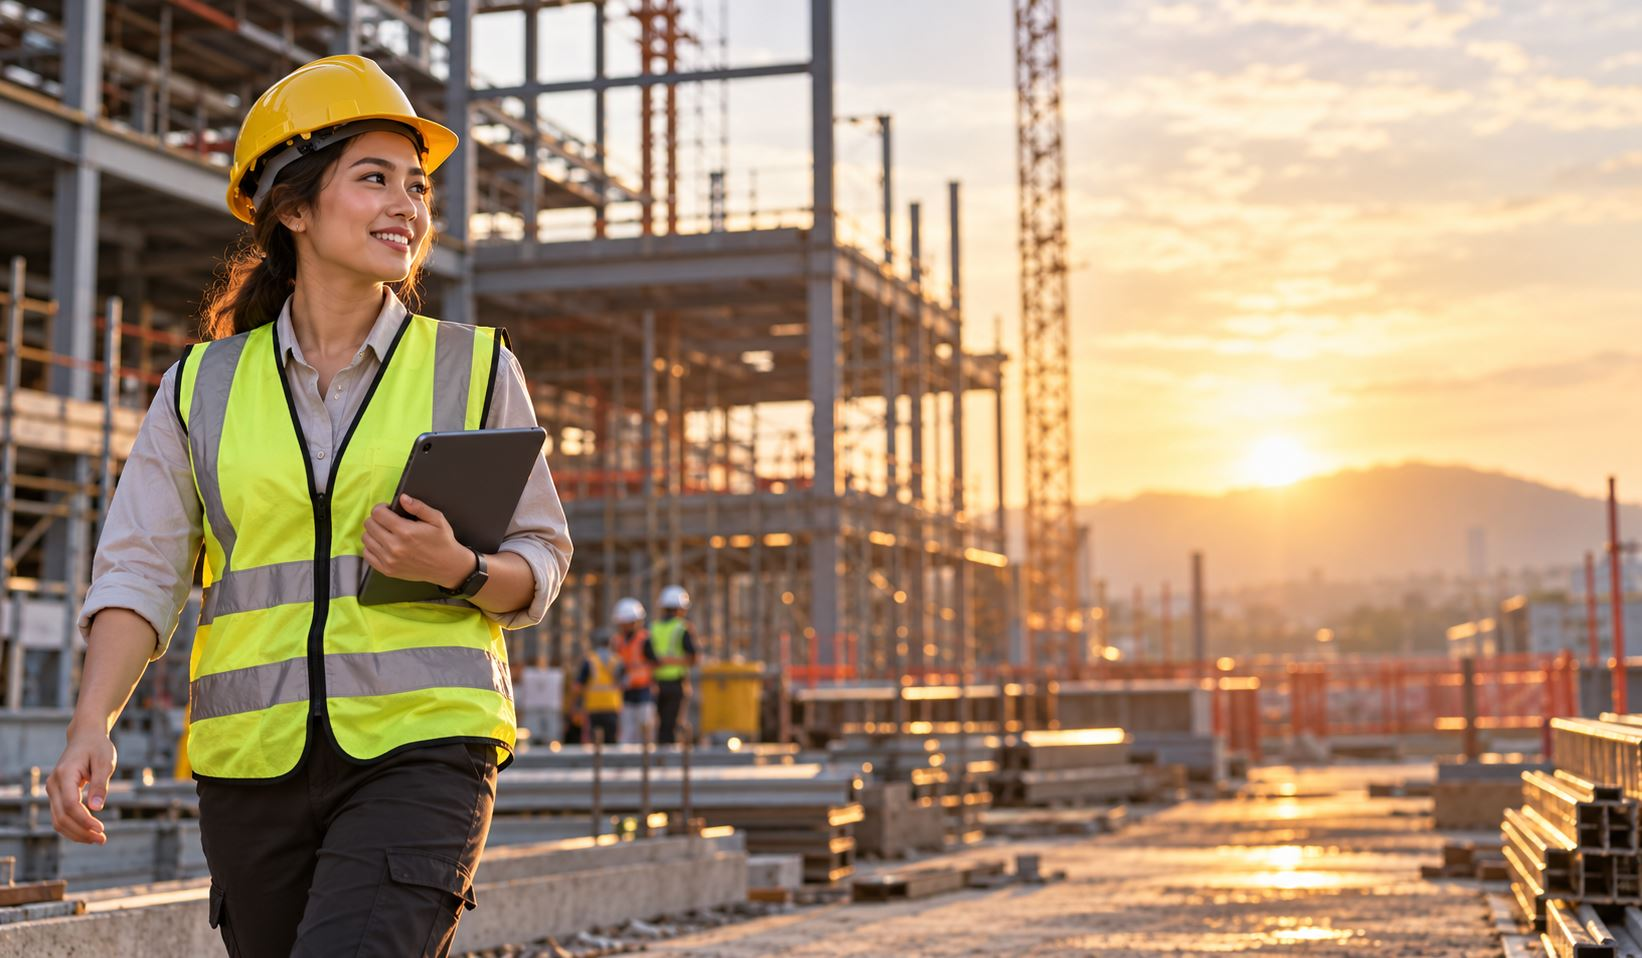
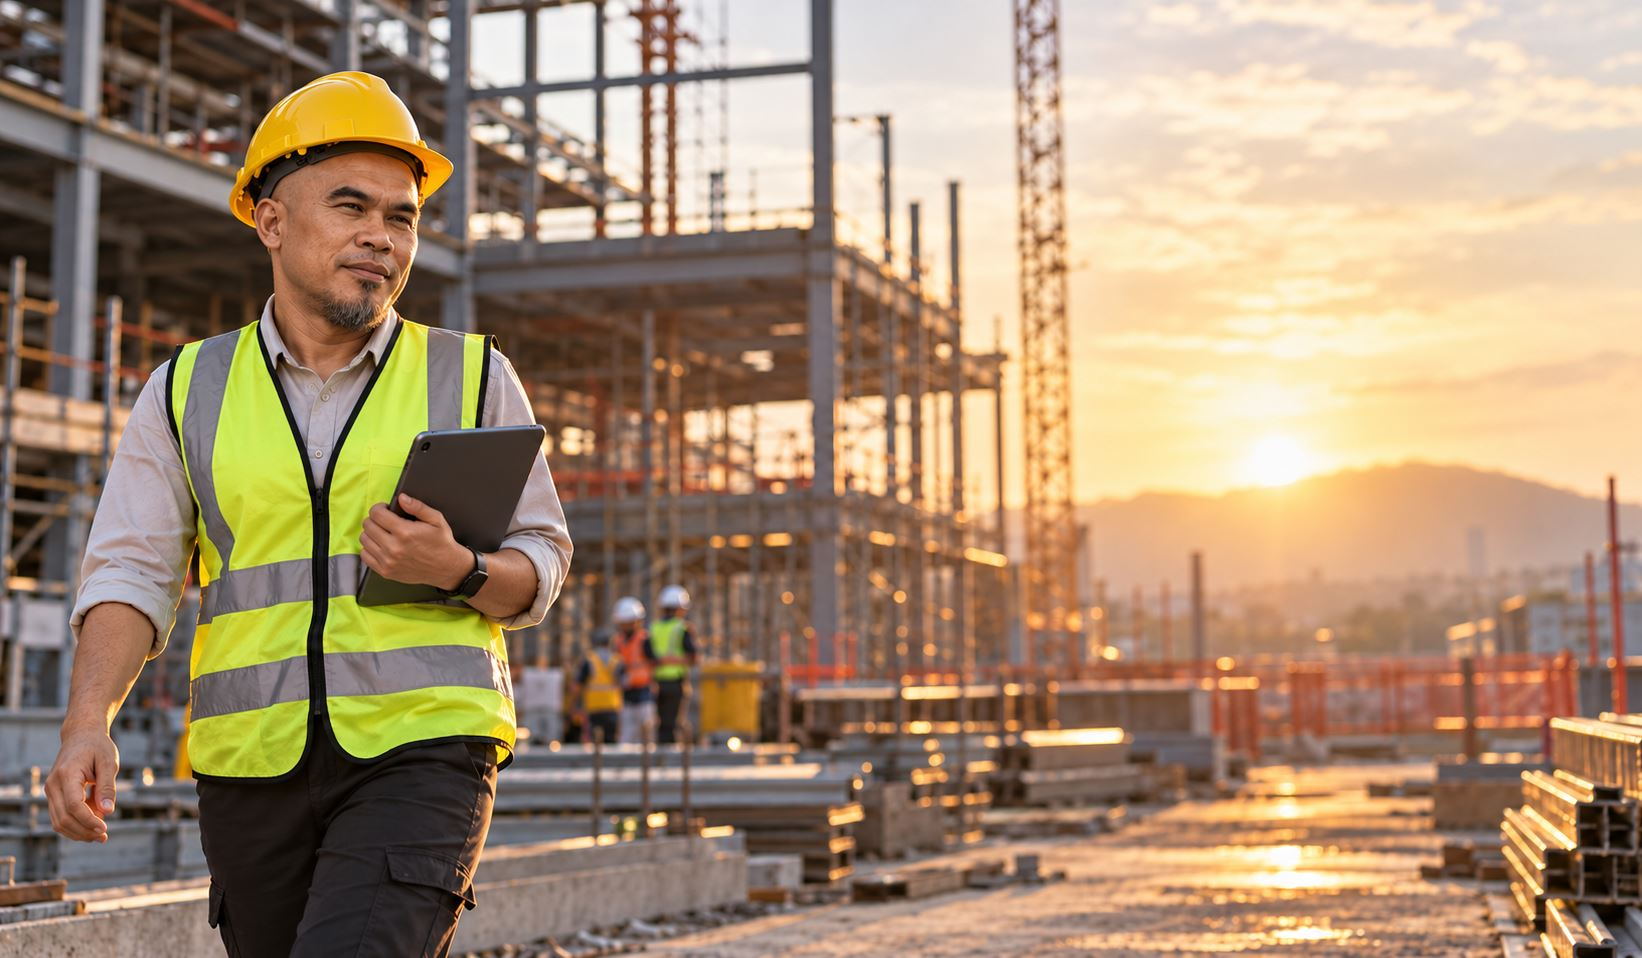
landing page

diff --git a/resources/js/Pages/PublicWeb/Index.jsx b/resources/js/Pages/PublicWeb/Index.jsx
@@ -1,5 +1,5 @@
 import React, { useEffect, useMemo, useRef, useState } from 'react';
-import { Head, Link, useForm, usePage } from '@inertiajs/react';
+import { Head, Link } from '@inertiajs/react';
 import { AnimatePresence, motion, useInView, useScroll, useTransform } from 'framer-motion';
 import {
     ArrowUpRight, ArrowRight, Phone, Menu, X, ChevronDown, Check, Play, Quote, Star, ShieldCheck, ClipboardCheck,
@@ -23,8 +23,6 @@ const NAV = [
 ];
 
 const HERO_WORDS = ['safer', 'smarter', 'compliant', 'faster'];
-
-const INTERESTS = ['Inspections', 'Toolbox talks', 'Incident statistics', 'Man-hours', 'Subcontractors'];
 
 const CAPABILITIES = [
     { icon: ClipboardCheck, label: 'Site inspections' },
@@ -92,7 +90,7 @@ const REVIEWS = [
 ];
 
 const STEPS = [
-    { title: 'Request a demo', text: 'Tell us about your projects and what you want to track.' },
+    { title: 'Create your account', text: 'Register your company and choose the modules you need.' },
     { title: 'Set up your company', text: 'Add projects, staff, subcontractors and your compliance metrics.' },
     { title: 'Assign & invite', text: 'Assign inspectors to projects and share the registration link with subcontractors.' },
     { title: 'Inspect & report', text: 'Run inspections and toolbox talks on site, then pull reports in one click.' },
@@ -268,145 +266,9 @@ function Counter({ to, suffix = '+', duration = 1.8 }) {
 }
 
 /* ──────────────────────────────────────────────────────────────
-   Hero estimate / demo form (2 steps)
-────────────────────────────────────────────────────────────── */
-function DemoForm() {
-    const [step, setStep] = useState(1);
-    const [done, setDone] = useState(false);
-    const { data, setData, post, processing, errors, reset } = useForm({
-        interests: [],
-        company: '',
-        projects: '',
-        preferred_date: '',
-        name: '',
-        email: '',
-        phone: '',
-    });
-
-    const toggle = (v) =>
-        setData('interests', data.interests.includes(v) ? data.interests.filter((x) => x !== v) : [...data.interests, v]);
-
-    const submit = (e) => {
-        e.preventDefault();
-        post('/demo-request', {
-            preserveScroll: true,
-            onSuccess: () => {
-                setDone(true);
-                reset();
-            },
-        });
-    };
-
-    const field =
-        'w-full rounded-xl border-0 bg-gray-100 px-4 py-3 text-sm text-ink-900 placeholder-gray-400 focus:bg-white focus:ring-2 focus:ring-brand-500';
-
-    return (
-        <div className="rounded-3xl bg-white p-3 text-ink-950 shadow-2xl">
-            <div className="rounded-2xl bg-brand-500 px-5 py-3.5 text-center text-sm font-semibold text-ink-900 shadow-inner">
-                Get your free demo
-            </div>
-
-            {done ? (
-                <div className="px-5 py-10 text-center">
-                    <span className="mx-auto flex h-14 w-14 items-center justify-center rounded-full bg-emerald-100 text-emerald-600">
-                        <Check className="h-7 w-7" strokeWidth={3} />
-                    </span>
-                    <p className="mt-4 text-lg font-semibold">Request received</p>
-                    <p className="mt-1 text-sm text-gray-500">We will contact you within one working day.</p>
-                    <button onClick={() => { setDone(false); setStep(1); }} className="mt-5 text-sm font-semibold text-ink-900 underline">
-                        Send another request
-                    </button>
-                </div>
-            ) : (
-                <form onSubmit={submit} className="px-3 pb-3 pt-4">
-                    <div className="flex items-center justify-center gap-2">
-                        {[1, 2].map((n) => (
-                            <span key={n} className={`flex h-6 w-6 items-center justify-center rounded-full text-xs font-bold transition ${step === n ? 'bg-ink-900 text-white' : 'bg-gray-100 text-gray-500'}`}>{n}</span>
-                        ))}
-                    </div>
-                    <p className="mt-2 text-center text-xs text-gray-400">Takes 15 seconds • 100% free</p>
-
-                    <AnimatePresence mode="wait">
-                        {step === 1 ? (
-                            <motion.div key="s1" initial={{ opacity: 0, x: 16 }} animate={{ opacity: 1, x: 0 }} exit={{ opacity: 0, x: -16 }} transition={{ duration: 0.25 }}>
-                                <p className="mt-4 text-sm font-semibold">What do you want to manage?</p>
-                                <div className="mt-3 flex flex-wrap gap-2">
-                                    {INTERESTS.map((v) => {
-                                        const on = data.interests.includes(v);
-                                        return (
-                                            <button key={v} type="button" onClick={() => toggle(v)}
-                                                className={`rounded-full px-3.5 py-2 text-xs font-medium transition ${on ? 'bg-ink-900 text-white' : 'bg-gray-100 text-ink-900 hover:bg-gray-200'}`}>
-                                                {v}
-                                            </button>
-                                        );
-                                    })}
-                                </div>
-
-                                <div className="mt-4 grid grid-cols-2 gap-3">
-                                    <div className="col-span-2">
-                                        <label className="mb-1 block text-xs font-medium text-gray-500">Company name</label>
-                                        <input className={field} value={data.company} onChange={(e) => setData('company', e.target.value)} placeholder="Your company" />
-                                    </div>
-                                    <div>
-                                        <label className="mb-1 block text-xs font-medium text-gray-500">Active projects</label>
-                                        <select className={field} value={data.projects} onChange={(e) => setData('projects', e.target.value)}>
-                                            <option value="">Select</option>
-                                            <option>1–3</option>
-                                            <option>4–10</option>
-                                            <option>11–25</option>
-                                            <option>25+</option>
-                                        </select>
-                                    </div>
-                                    <div>
-                                        <label className="mb-1 block text-xs font-medium text-gray-500">Preferred date</label>
-                                        <input type="date" className={field} value={data.preferred_date} onChange={(e) => setData('preferred_date', e.target.value)} />
-                                    </div>
-                                </div>
-
-                                <button type="button" onClick={() => setStep(2)} className="mx-auto mt-5 flex items-center gap-1.5 rounded-xl bg-gray-100 px-5 py-2.5 text-sm font-semibold hover:bg-gray-200">
-                                    Next <ArrowRight className="h-4 w-4" />
-                                </button>
-                            </motion.div>
-                        ) : (
-                            <motion.div key="s2" initial={{ opacity: 0, x: 16 }} animate={{ opacity: 1, x: 0 }} exit={{ opacity: 0, x: -16 }} transition={{ duration: 0.25 }}>
-                                <div className="mt-4 space-y-3">
-                                    <div>
-                                        <label className="mb-1 block text-xs font-medium text-gray-500">Full name</label>
-                                        <input className={field} value={data.name} onChange={(e) => setData('name', e.target.value)} required />
-                                        {errors.name && <p className="mt-1 text-xs text-red-500">{errors.name}</p>}
-                                    </div>
-                                    <div>
-                                        <label className="mb-1 block text-xs font-medium text-gray-500">Email</label>
-                                        <input type="email" className={field} value={data.email} onChange={(e) => setData('email', e.target.value)} required />
-                                        {errors.email && <p className="mt-1 text-xs text-red-500">{errors.email}</p>}
-                                    </div>
-                                    <div>
-                                        <label className="mb-1 block text-xs font-medium text-gray-500">Phone number (optional)</label>
-                                        <input type="tel" className={field} value={data.phone} onChange={(e) => setData('phone', e.target.value)} />
-                                    </div>
-                                </div>
-                                <div className="mt-5 flex gap-2">
-                                    <button type="button" onClick={() => setStep(1)} className="rounded-xl bg-gray-100 px-4 py-3 text-sm font-semibold hover:bg-gray-200">Back</button>
-                                    <button type="submit" disabled={processing} className="flex-1 rounded-xl bg-brand-500 px-4 py-3 text-sm font-semibold text-ink-900 hover:bg-brand-400 disabled:opacity-60">
-                                        {processing ? 'Sending…' : 'Get my free demo'}
-                                    </button>
-                                </div>
-                            </motion.div>
-                        )}
-                    </AnimatePresence>
-
-                    <p className="mt-4 text-center text-[11px] text-gray-400">We respect your privacy.</p>
-                </form>
-            )}
-        </div>
-    );
-}
-
-/* ──────────────────────────────────────────────────────────────
    Page
 ────────────────────────────────────────────────────────────── */
 export default function Landing({ modules = [] }) {
-    const { flash } = usePage().props;
     const [bar, setBar] = useState(true);
     const [menu, setMenu] = useState(false);
     const [stuck, setStuck] = useState(false);
@@ -457,7 +319,7 @@ export default function Landing({ modules = [] }) {
                         <div className="relative mx-auto flex max-w-7xl items-center justify-center px-10 py-2.5 text-center text-xs font-medium sm:text-sm">
                             <span>
                                 Digitise inspections & toolbox talks for every project.{' '}
-                                <a href="#demo" className="font-semibold underline underline-offset-2">Book a free demo</a>
+                                <Link href="/register-view" className="font-semibold underline underline-offset-2">Create your account</Link>
                             </span>
                             <button onClick={() => setBar(false)} className="absolute right-3 flex h-6 w-6 items-center justify-center rounded-full bg-ink-900/10 hover:bg-ink-900/20" aria-label="Close">
                                 <X className="h-3.5 w-3.5" />
@@ -488,10 +350,10 @@ export default function Landing({ modules = [] }) {
                             <Phone className="h-4 w-4 text-brand-700" /> {CONTACT.phone}
                         </a>
                         <Link href="/login" className="rounded-full px-4 py-2.5 text-sm font-semibold hover:bg-gray-100">Sign in</Link>
-                        <a href="#demo" className="group flex items-center gap-2.5 rounded-full bg-gray-100 py-2 pl-2 pr-5 text-sm font-semibold transition hover:bg-gray-200">
+                        <Link href="/register-view" className="group flex items-center gap-2.5 rounded-full bg-gray-100 py-2 pl-2 pr-5 text-sm font-semibold transition hover:bg-gray-200">
                             <span className="flex h-8 w-8 items-center justify-center rounded-full bg-ink-900 text-brand-400 transition group-hover:rotate-45"><ArrowUpRight className="h-4 w-4" /></span>
-                            Get free demo
-                        </a>
+                            Get started
+                        </Link>
                     </div>
 
                     <button onClick={() => setMenu(!menu)} className="flex h-10 w-10 items-center justify-center rounded-full bg-gray-100 lg:hidden" aria-label="Menu">
@@ -508,7 +370,7 @@ export default function Landing({ modules = [] }) {
                                 ))}
                                 <div className="flex gap-2 pt-3">
                                     <Link href="/login" className="flex-1 rounded-full border border-gray-200 py-3 text-center text-sm font-semibold">Sign in</Link>
-                                    <a href="#demo" onClick={() => setMenu(false)} className="flex-1 rounded-full bg-brand-500 py-3 text-center text-sm font-semibold text-ink-900">Free demo</a>
+                                    <Link href="/register-view" className="flex-1 rounded-full bg-brand-500 py-3 text-center text-sm font-semibold text-ink-900">Get started</Link>
                                 </div>
                             </div>
                         </motion.div>
@@ -520,9 +382,9 @@ export default function Landing({ modules = [] }) {
                 {/* HERO */}
                 <section className="px-1 sm:px-1.5">
                     <Photo src="hero.jpg" alt="Safety inspector on site" className="min-h-[760px] rounded-[28px] lg:min-h-[880px]">
-                        <div className="absolute inset-0 bg-gradient-to-r from-black/80 via-black/45 to-black/10" />
-                        <div className="relative mx-auto grid max-w-[1400px] items-center gap-10 px-5 py-14 sm:px-8 lg:grid-cols-[1.15fr_0.85fr] lg:py-20">
-                            <div className="text-white">
+                        <div className="absolute inset-0 bg-gradient-to-t from-black/85 via-black/50 to-black/10 lg:bg-gradient-to-l lg:from-black/85 lg:via-black/55 lg:to-black/0" />
+                        <div className="relative mx-auto flex min-h-[760px] max-w-[1400px] items-end px-5 py-14 sm:px-8 lg:min-h-[880px] lg:items-center lg:justify-end lg:py-20">
+                            <div className="max-w-3xl text-white">
                                 <Reveal>
                                     <div className="mb-8 flex flex-wrap items-center gap-3">
                                         <span className="inline-flex items-center gap-2 rounded-full border border-white/20 bg-white/10 px-4 py-2 text-xs backdrop-blur">
@@ -548,10 +410,10 @@ export default function Landing({ modules = [] }) {
 
                                 <Reveal delay={0.24}>
                                     <div className="mt-8 flex flex-wrap gap-3">
-                                        <PillButton href="#demo">Book a demo</PillButton>
-                                        <a href="#features" className="inline-flex items-center rounded-full bg-white/15 px-6 py-3.5 text-sm font-semibold text-white backdrop-blur transition hover:bg-white/25">
-                                            See features
-                                        </a>
+                                        <PillButton href="/register-view">Get started</PillButton>
+                                        <Link href="/login" className="inline-flex items-center rounded-full bg-white/15 px-6 py-3.5 text-sm font-semibold text-white backdrop-blur transition hover:bg-white/25">
+                                            Sign in
+                                        </Link>
                                     </div>
                                 </Reveal>
 
@@ -572,9 +434,6 @@ export default function Landing({ modules = [] }) {
                                 </Reveal>
                             </div>
 
-                            <motion.div id="demo" initial={{ opacity: 0, y: 40 }} animate={{ opacity: 1, y: 0 }} transition={{ duration: 0.8, delay: 0.25, ease }} className="scroll-mt-28">
-                                <DemoForm />
-                            </motion.div>
                         </div>
                     </Photo>
                 </section>
@@ -604,10 +463,10 @@ export default function Landing({ modules = [] }) {
                             </Reveal>
                         </div>
                         <Reveal delay={0.15}>
-                            <a href="#demo" className="group inline-flex items-center gap-3 text-sm font-semibold">
-                                Book a demo
+                            <Link href="/register-view" className="group inline-flex items-center gap-3 text-sm font-semibold">
+                                Create an account
                                 <span className="flex h-9 w-9 items-center justify-center rounded-full bg-ink-900 text-white transition group-hover:rotate-45"><ArrowUpRight className="h-4 w-4" /></span>
-                            </a>
+                            </Link>
                         </Reveal>
                     </div>
 
@@ -735,10 +594,10 @@ export default function Landing({ modules = [] }) {
                                             {p.price === 0 ? 'Free' : <>RM {Number(p.price).toLocaleString()}</>}
                                             {p.price > 0 && <span className={`ml-1 text-base font-normal tracking-normal ${p.popular ? 'text-gray-400' : 'text-gray-500'}`}>/ year</span>}
                                         </p>
-                                        <a href="#demo" className={`group mt-6 flex items-center justify-between rounded-full py-2 pl-5 pr-2 text-sm font-semibold transition ${p.popular ? 'bg-brand-500 text-ink-900 hover:bg-brand-400' : 'bg-gray-100 text-ink-900 hover:bg-gray-200'}`}>
+                                        <Link href="/register-view" className={`group mt-6 flex items-center justify-between rounded-full py-2 pl-5 pr-2 text-sm font-semibold transition ${p.popular ? 'bg-brand-500 text-ink-900 hover:bg-brand-400' : 'bg-gray-100 text-ink-900 hover:bg-gray-200'}`}>
                                             Get started
                                             <span className="flex h-9 w-9 items-center justify-center rounded-full bg-ink-900 text-brand-400 transition group-hover:rotate-45"><ArrowUpRight className="h-4 w-4" /></span>
-                                        </a>
+                                        </Link>
                                         <ul className="mt-7 space-y-3 text-sm">
                                             {p.items.map((it) => (
                                                 <li key={it} className="flex items-start gap-2.5">
@@ -825,7 +684,7 @@ export default function Landing({ modules = [] }) {
                             <Reveal><SectionTag>How it works</SectionTag></Reveal>
                             <Reveal delay={0.05}><H2>Up and running in a day</H2></Reveal>
                             <Reveal delay={0.1}><p className="mt-4 max-w-sm text-gray-500">Tell us about your projects and get a clear, upfront setup plan.</p></Reveal>
-                            <Reveal delay={0.15}><div className="mt-7"><PillButton href="#demo" tone="dark">Get my free demo</PillButton></div></Reveal>
+                            <Reveal delay={0.15}><div className="mt-7"><PillButton href="/register-view" tone="dark">Create my account</PillButton></div></Reveal>
                         </div>
                         <div className="space-y-4">
                             {STEPS.map((s, i) => (
@@ -964,7 +823,7 @@ export default function Landing({ modules = [] }) {
                             </div>
                             <Reveal delay={0.15}>
                                 <div className="mt-12 flex justify-center">
-                                    <PillButton href="#demo" tone="accent">Get my free demo</PillButton>
+                                    <PillButton href="/register-view" tone="accent">Get started</PillButton>
                                 </div>
                             </Reveal>
                         </div>
@@ -991,7 +850,7 @@ export default function Landing({ modules = [] }) {
                     {[
                         { t: 'Product', l: [['Inspections', '#features'], ['Toolbox talks', '#features'], ['Incident statistics', '#features'], ['Modules', '#modules']] },
                         { t: 'Company', l: [['About', '#about'], ['Pricing', '#pricing'], ['Guides', '#guides'], ['Contact', '#contact']] },
-                        { t: 'Access', l: [['Sign in', '/login'], ['Create account', '/register-view'], ['Free demo', '#demo']] },
+                        { t: 'Access', l: [['Sign in', '/login'], ['Create account', '/register-view']] },
                     ].map((c) => (
                         <div key={c.t}>
                             <p className="text-sm font-semibold">{c.t}</p>
@@ -1019,14 +878,6 @@ export default function Landing({ modules = [] }) {
                 </div>
             </footer>
 
-            {/* success toast from the demo form */}
-            <AnimatePresence>
-                {flash?.success && (
-                    <motion.div initial={{ opacity: 0, y: 30 }} animate={{ opacity: 1, y: 0 }} exit={{ opacity: 0 }} className="fixed bottom-5 left-1/2 z-50 -translate-x-1/2 rounded-full bg-ink-900 px-5 py-3 text-sm font-medium text-white shadow-2xl">
-                        <span className="flex items-center gap-2"><Sparkles className="h-4 w-4 text-brand-400" /> {flash.success}</span>
-                    </motion.div>
-                )}
-            </AnimatePresence>
         </div>
     );
 }

diff --git a/routes/web.php b/routes/web.php
@@ -266,7 +266,3 @@ Route::middleware(['auth', 'role:2'])->group(function () {
     Route::put('/company-details', [\App\Http\Controllers\CompanyDetailsController::class, 'update'])->name('company.details.update');
 });
 
-// Public landing page – demo request form
-Route::post('/demo-request', [\App\Http\Controllers\PublicWebController::class, 'requestDemo'])
-    ->middleware('throttle:6,1')
-    ->name('public.demo.request');
